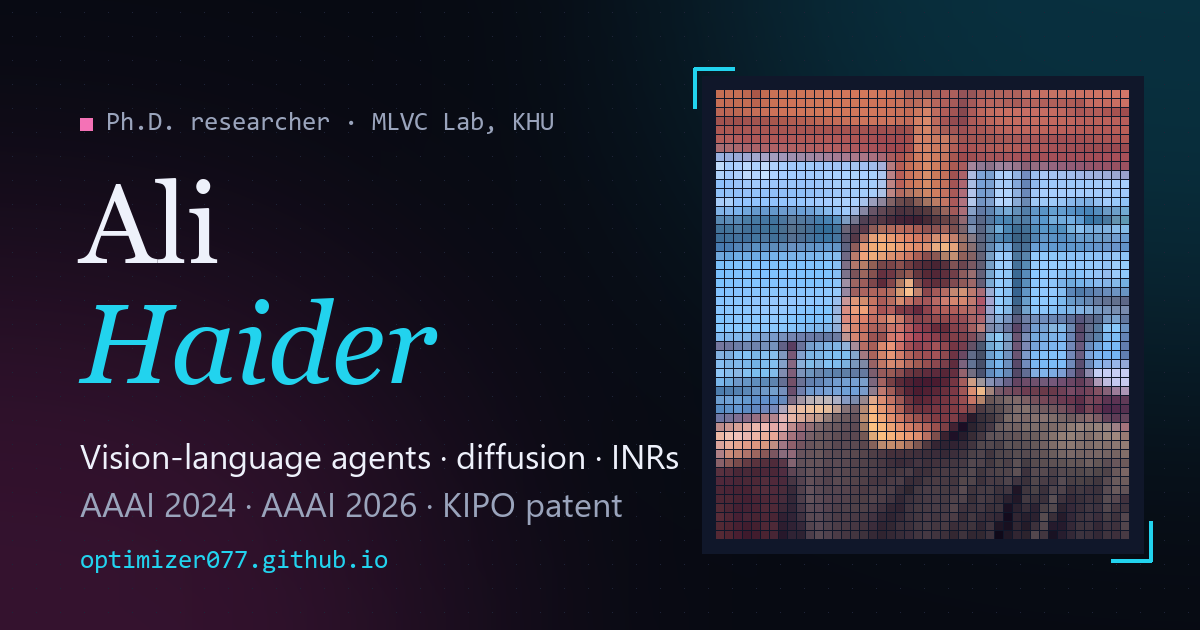
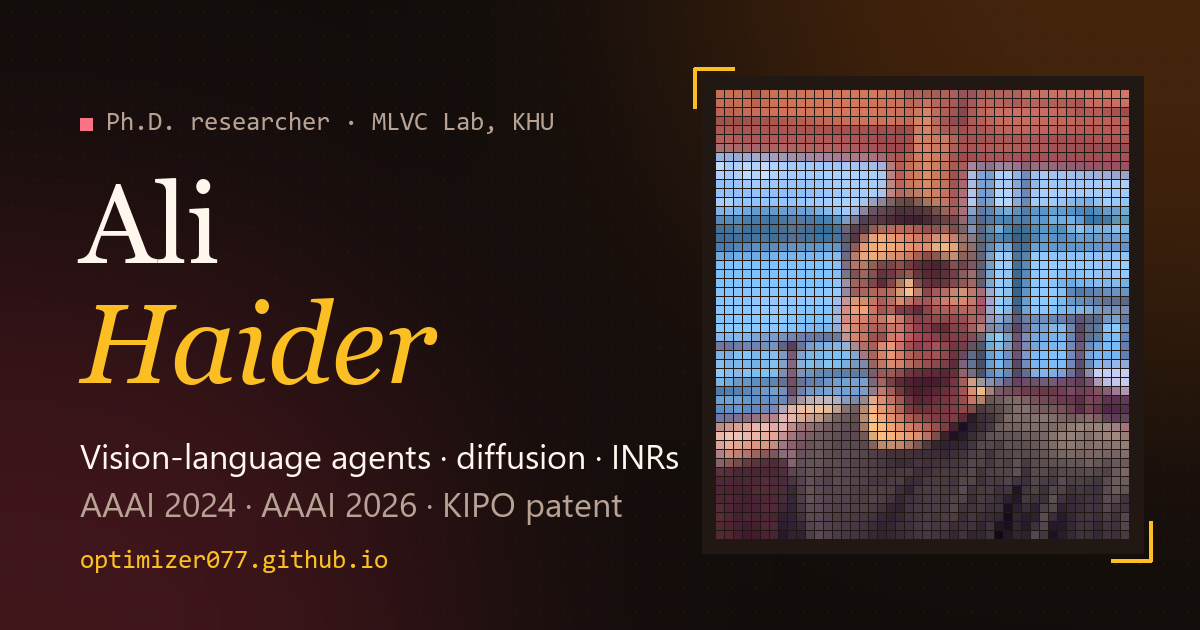
feat: Ember palette site-wide (warm charcoal, amber, coral)
Chosen from four previewed tones. Applies to CSS tokens, background
physics colour ramps, pixel car and drone scenes, favicon, app icon,
link-preview card and the mobile browser-bar colour. Removes the
temporary ?tone= preview code. Readability audit unchanged (no real
WCAG AA failures across scenes/scroll positions on desktop and phone).

diff --git a/style.css b/style.css
@@ -58,24 +58,24 @@
 /* ----- Tokens: dark ("ink") — the site is dark-only; these override the base set above ----- */
 @media all {
   :root {
-    --clr-bg:            #070a12;
-    --clr-bg-alt:        #0c1120;
-    --clr-surface:       #10172a;
-    --clr-primary:       #f1f5ff;
-    --clr-text:          #c9d1e4;
-    --clr-muted:         #9aa4bc;
-    --clr-border:        #1e2840;
-    --clr-grid:          rgba(241, 245, 255, .05);
-    --clr-accent:        #22d3ee;
-    --clr-accent-dark:   #67e8f9;
-    --clr-accent-light:  rgba(34, 211, 238, .12);
-    --clr-accent-border: rgba(34, 211, 238, .4);
-    --clr-signal:        #f472b6;
-    --clr-on-accent:     #04121a;
-    --clr-header:        rgba(7, 10, 18, .82);
-  --clr-glow:          rgba(34, 211, 238, .13);
-  --clr-thumb:         #d9e2f0;
-  --clr-glow-2:        rgba(244, 114, 182, .11);
+    --clr-bg:            #120d0b;
+    --clr-bg-alt:        #1a1310;
+    --clr-surface:       #211814;
+    --clr-primary:       #fff7ed;
+    --clr-text:          #e6d5c8;
+    --clr-muted:         #b8a294;
+    --clr-border:        #3a2a23;
+    --clr-grid:          rgba(255, 247, 237, .05);
+    --clr-accent:        #fbbf24;
+    --clr-accent-dark:   #fcd34d;
+    --clr-accent-light:  rgba(251, 191, 36, .12);
+    --clr-accent-border: rgba(251, 191, 36, .4);
+    --clr-signal:        #fb7185;
+    --clr-on-accent:     #1a1004;
+    --clr-header:        rgba(18, 13, 11, .82);
+  --clr-glow:          rgba(251, 146, 60, .13);
+  --clr-thumb:         #ecdfd3;
+  --clr-glow-2:        rgba(251, 113, 133, .10);
     --clr-badge-green-text:  #74e3a0;
     --clr-badge-blue-text:   #8db4ff;
     --clr-badge-purple-text: #d3a6ff;
@@ -87,24 +87,24 @@
   }
 }
 :root[data-theme="dark"] {
-  --clr-bg:            #070a12;
-  --clr-bg-alt:        #0c1120;
-  --clr-surface:       #10172a;
-  --clr-primary:       #f1f5ff;
-  --clr-text:          #c9d1e4;
-  --clr-muted:         #9aa4bc;
-  --clr-border:        #1e2840;
-  --clr-grid:          rgba(241, 245, 255, .05);
-  --clr-accent:        #22d3ee;
-  --clr-accent-dark:   #67e8f9;
-  --clr-accent-light:  rgba(34, 211, 238, .12);
-  --clr-accent-border: rgba(34, 211, 238, .4);
-  --clr-signal:        #f472b6;
-  --clr-on-accent:     #04121a;
-  --clr-header:        rgba(7, 10, 18, .82);
-  --clr-glow:          rgba(34, 211, 238, .13);
-  --clr-thumb:         #d9e2f0;
-  --clr-glow-2:        rgba(244, 114, 182, .11);
+  --clr-bg:            #120d0b;
+  --clr-bg-alt:        #1a1310;
+  --clr-surface:       #211814;
+  --clr-primary:       #fff7ed;
+  --clr-text:          #e6d5c8;
+  --clr-muted:         #b8a294;
+  --clr-border:        #3a2a23;
+  --clr-grid:          rgba(255, 247, 237, .05);
+  --clr-accent:        #fbbf24;
+  --clr-accent-dark:   #fcd34d;
+  --clr-accent-light:  rgba(251, 191, 36, .12);
+  --clr-accent-border: rgba(251, 191, 36, .4);
+  --clr-signal:        #fb7185;
+  --clr-on-accent:     #1a1004;
+  --clr-header:        rgba(18, 13, 11, .82);
+  --clr-glow:          rgba(251, 146, 60, .13);
+  --clr-thumb:         #ecdfd3;
+  --clr-glow-2:        rgba(251, 113, 133, .10);
   --clr-badge-green-text:  #74e3a0;
   --clr-badge-blue-text:   #8db4ff;
   --clr-badge-purple-text: #d3a6ff;
@@ -113,48 +113,6 @@
   --clr-badge-rose-text:   #fb7f9b;
   --shadow-md: 0 14px 34px -14px rgba(0, 0, 0, .7);
   color-scheme: dark;
-}
-
-/* ----- Preview tones: activated by ?tone=<name> in the URL (not persisted) ----- */
-:root[data-tone="aurora"] {
-  --clr-bg: #061210; --clr-bg-alt: #0a1a17; --clr-surface: #0d211d; --clr-border: #1b3530;
-  --clr-primary: #ecfdf5; --clr-text: #c6ddd6; --clr-muted: #94b3aa;
-  --clr-grid: rgba(236, 253, 245, .05);
-  --clr-accent: #34d399; --clr-accent-dark: #6ee7b7;
-  --clr-accent-light: rgba(52, 211, 153, .12); --clr-accent-border: rgba(52, 211, 153, .4);
-  --clr-signal: #a78bfa; --clr-on-accent: #03140e;
-  --clr-header: rgba(6, 18, 16, .82);
-  --clr-glow: rgba(52, 211, 153, .13); --clr-glow-2: rgba(167, 139, 250, .10);
-}
-:root[data-tone="ember"] {
-  --clr-bg: #120d0b; --clr-bg-alt: #1a1310; --clr-surface: #211814; --clr-border: #3a2a23;
-  --clr-primary: #fff7ed; --clr-text: #e6d5c8; --clr-muted: #b8a294;
-  --clr-grid: rgba(255, 247, 237, .05);
-  --clr-accent: #fbbf24; --clr-accent-dark: #fcd34d;
-  --clr-accent-light: rgba(251, 191, 36, .12); --clr-accent-border: rgba(251, 191, 36, .4);
-  --clr-signal: #fb7185; --clr-on-accent: #1a1004;
-  --clr-header: rgba(18, 13, 11, .82);
-  --clr-glow: rgba(251, 191, 36, .13); --clr-glow-2: rgba(251, 113, 133, .10);
-}
-:root[data-tone="ocean"] {
-  --clr-bg: #06101f; --clr-bg-alt: #0a172b; --clr-surface: #0e1d35; --clr-border: #1d3050;
-  --clr-primary: #f0f9ff; --clr-text: #c7d7ea; --clr-muted: #93a8c4;
-  --clr-grid: rgba(240, 249, 255, .05);
-  --clr-accent: #38bdf8; --clr-accent-dark: #7dd3fc;
-  --clr-accent-light: rgba(56, 189, 248, .12); --clr-accent-border: rgba(56, 189, 248, .4);
-  --clr-signal: #fbbf24; --clr-on-accent: #03111d;
-  --clr-header: rgba(6, 16, 31, .82);
-  --clr-glow: rgba(56, 189, 248, .13); --clr-glow-2: rgba(251, 191, 36, .10);
-}
-:root[data-tone="royal"] {
-  --clr-bg: #0f0a1a; --clr-bg-alt: #160f25; --clr-surface: #1c132f; --clr-border: #33264d;
-  --clr-primary: #faf5ff; --clr-text: #dcd0ee; --clr-muted: #ab9cc6;
-  --clr-grid: rgba(250, 245, 255, .05);
-  --clr-accent: #c084fc; --clr-accent-dark: #d8b4fe;
-  --clr-accent-light: rgba(192, 132, 252, .12); --clr-accent-border: rgba(192, 132, 252, .4);
-  --clr-signal: #fdba74; --clr-on-accent: #14081f;
-  --clr-header: rgba(15, 10, 26, .82);
-  --clr-glow: rgba(192, 132, 252, .13); --clr-glow-2: rgba(253, 186, 116, .10);
 }
 
 /* ----- Reset & base ----- */

diff --git a/index.html b/index.html
@@ -6,7 +6,7 @@
   <meta name="viewport" content="width=device-width, initial-scale=1" />
   <meta name="description" content="Ali Haider — Ph.D. researcher in AI at Kyung Hee University (MLVC Lab). Vision-language navigation for drones, diffusion models for images and language, implicit neural representations. AAAI 2024, AAAI 2026." />
   <link rel="canonical" href="https://optimizer077.github.io/" />
-  <meta name="theme-color" content="#070a12" />
+  <meta name="theme-color" content="#120d0b" />
   <meta name="color-scheme" content="dark" />
   <link rel="icon" href="favicon.svg" type="image/svg+xml" />
   <link rel="apple-touch-icon" href="apple-touch-icon.png" />
@@ -23,11 +23,11 @@
   <meta name="twitter:creator" content="@007Alihaider" />
   <link rel="preload" as="image" href="assets/img/portrait.webp" type="image/webp" />
   <script type="application/ld+json">{"@context": "https://schema.org", "@type": "Person", "name": "Ali Haider", "url": "https://optimizer077.github.io/", "image": "https://optimizer077.github.io/assets/img/portrait.webp", "jobTitle": "Ph.D. Researcher in Artificial Intelligence", "affiliation": {"@type": "CollegeOrUniversity", "name": "Kyung Hee University"}, "alumniOf": {"@type": "CollegeOrUniversity", "name": "University of Engineering and Technology, Taxila"}, "knowsAbout": ["Vision-language models", "Vision-language navigation", "Diffusion models", "Implicit neural representations", "Image restoration", "MRI reconstruction"], "sameAs": ["https://scholar.google.com/citations?user=-ADiGUAAAAAJ", "https://github.com/Optimizer077", "https://x.com/007Alihaider"]}</script>
-  <script>(function(){var d=document.documentElement;d.classList.add('js');var m=/[?&]tone=([a-z]+)/.exec(location.search);if(m)d.setAttribute('data-tone',m[1]);})();</script>
+  <script>document.documentElement.classList.add('js');</script>
   <link rel="preconnect" href="https://fonts.googleapis.com" />
   <link rel="preconnect" href="https://fonts.gstatic.com" crossorigin />
   <link href="https://fonts.googleapis.com/css2?family=Hanken+Grotesk:wght@400;500;600;700&family=Instrument+Serif:ital@0;1&family=JetBrains+Mono:wght@400;500&display=swap" rel="stylesheet" />
-  <link rel="stylesheet" href="style.css?v=735be30d" />
+  <link rel="stylesheet" href="style.css?v=327006ec" />
 </head>
 <body>
   <a class="skip-link" href="#main">Skip to content</a>
@@ -737,11 +737,11 @@
   </footer>
 
   <script src="assets/js/site.js?v=b1572635" defer></script>
-  <script src="assets/js/bg-physics.js?v=cd98ecd9" defer></script>
+  <script src="assets/js/bg-physics.js?v=308d2ffe" defer></script>
   <script src="assets/js/flow-field.js?v=c58437f6" defer></script>
   <script src="assets/js/pixel-hero.js?v=a2e7a5b7" defer></script>
-  <script src="assets/js/hill-drive.js?v=3515974f" defer></script>
-  <script src="assets/js/drone-nav.js?v=46771c6b" defer></script>
+  <script src="assets/js/hill-drive.js?v=10d64876" defer></script>
+  <script src="assets/js/drone-nav.js?v=3d6eb050" defer></script>
   <script src="assets/js/mini-demos.js?v=67ed3d28" defer></script>
   <script src="assets/js/learn-loop.js?v=daa6a3fd" defer></script>
 </body>

diff --git a/reading.html b/reading.html
@@ -6,7 +6,7 @@
   <meta name="viewport" content="width=device-width, initial-scale=1" />
   <meta name="description" content="Ali Haider's paper reading list — vision-language navigation, VLMs, reasoning, diffusion, INRs, MRI and more, synced from Zotero." />
   <link rel="canonical" href="https://optimizer077.github.io/reading.html" />
-  <meta name="theme-color" content="#070a12" />
+  <meta name="theme-color" content="#120d0b" />
   <meta name="color-scheme" content="dark" />
   <link rel="icon" href="favicon.svg" type="image/svg+xml" />
   <link rel="apple-touch-icon" href="apple-touch-icon.png" />
@@ -21,11 +21,11 @@
   <meta property="og:image:alt" content="Ali Haider — pixel portrait and research summary" />
   <meta name="twitter:card" content="summary_large_image" />
   <meta name="twitter:creator" content="@007Alihaider" />
-  <script>(function(){var d=document.documentElement;d.classList.add('js');var m=/[?&]tone=([a-z]+)/.exec(location.search);if(m)d.setAttribute('data-tone',m[1]);})();</script>
+  <script>document.documentElement.classList.add('js');</script>
   <link rel="preconnect" href="https://fonts.googleapis.com" />
   <link rel="preconnect" href="https://fonts.gstatic.com" crossorigin />
   <link href="https://fonts.googleapis.com/css2?family=Hanken+Grotesk:wght@400;500;600;700&family=Instrument+Serif:ital@0;1&family=JetBrains+Mono:wght@400;500&display=swap" rel="stylesheet" />
-  <link rel="stylesheet" href="style.css?v=735be30d" />
+  <link rel="stylesheet" href="style.css?v=327006ec" />
 </head>
 <body class="page-reading">
   <a class="skip-link" href="#main">Skip to content</a>
@@ -119,7 +119,7 @@
   </footer>
 
   <script src="assets/js/site.js?v=b1572635" defer></script>
-  <script src="assets/js/bg-physics.js?v=cd98ecd9" defer></script>
+  <script src="assets/js/bg-physics.js?v=308d2ffe" defer></script>
   <script src="assets/js/flow-field.js?v=c58437f6" defer></script>
   <script src="assets/js/reading.js?v=ca8dd1f0" defer></script>
 </body>

diff --git a/seminar.html b/seminar.html
@@ -6,7 +6,7 @@
   <meta name="viewport" content="width=device-width, initial-scale=1" />
   <meta name="description" content="Selected seminar talks and invited presentations by Ali Haider — diffusion models, image restoration, reasoning and agentic vision systems." />
   <link rel="canonical" href="https://optimizer077.github.io/seminar.html" />
-  <meta name="theme-color" content="#070a12" />
+  <meta name="theme-color" content="#120d0b" />
   <meta name="color-scheme" content="dark" />
   <link rel="icon" href="favicon.svg" type="image/svg+xml" />
   <link rel="apple-touch-icon" href="apple-touch-icon.png" />
@@ -21,11 +21,11 @@
   <meta property="og:image:alt" content="Ali Haider — pixel portrait and research summary" />
   <meta name="twitter:card" content="summary_large_image" />
   <meta name="twitter:creator" content="@007Alihaider" />
-  <script>(function(){var d=document.documentElement;d.classList.add('js');var m=/[?&]tone=([a-z]+)/.exec(location.search);if(m)d.setAttribute('data-tone',m[1]);})();</script>
+  <script>document.documentElement.classList.add('js');</script>
   <link rel="preconnect" href="https://fonts.googleapis.com" />
   <link rel="preconnect" href="https://fonts.gstatic.com" crossorigin />
   <link href="https://fonts.googleapis.com/css2?family=Hanken+Grotesk:wght@400;500;600;700&family=Instrument+Serif:ital@0;1&family=JetBrains+Mono:wght@400;500&display=swap" rel="stylesheet" />
-  <link rel="stylesheet" href="style.css?v=735be30d" />
+  <link rel="stylesheet" href="style.css?v=327006ec" />
   <style>
     /* ── Page header ── */
     .seminar-hero { margin-bottom: 1.75rem; }
@@ -304,7 +304,7 @@
   </footer>
 
   <script src="assets/js/site.js?v=b1572635" defer></script>
-  <script src="assets/js/bg-physics.js?v=cd98ecd9" defer></script>
+  <script src="assets/js/bg-physics.js?v=308d2ffe" defer></script>
   <script src="assets/js/flow-field.js?v=c58437f6" defer></script>
 </body>
 </html>

diff --git a/404.html b/404.html
@@ -5,14 +5,14 @@
   <title>Page not found — Ali Haider</title>
   <meta name="viewport" content="width=device-width, initial-scale=1" />
   <meta name="robots" content="noindex" />
-  <meta name="theme-color" content="#070a12" />
+  <meta name="theme-color" content="#120d0b" />
   <meta name="color-scheme" content="dark" />
   <link rel="icon" href="/favicon.svg" type="image/svg+xml" />
-  <script>(function(){var d=document.documentElement;d.classList.add('js');var m=/[?&]tone=([a-z]+)/.exec(location.search);if(m)d.setAttribute('data-tone',m[1]);})();</script>
+  <script>document.documentElement.classList.add('js');</script>
   <link rel="preconnect" href="https://fonts.googleapis.com" />
   <link rel="preconnect" href="https://fonts.gstatic.com" crossorigin />
   <link href="https://fonts.googleapis.com/css2?family=Hanken+Grotesk:wght@400;500;600;700&family=Instrument+Serif:ital@0;1&family=JetBrains+Mono:wght@400;500&display=swap" rel="stylesheet" />
-  <link rel="stylesheet" href="/style.css?v=735be30d" />
+  <link rel="stylesheet" href="/style.css?v=327006ec" />
   <style>
     .nf {
       min-height: calc(100vh - var(--header-h) - 80px);

diff --git a/assets/js/drone-nav.js b/assets/js/drone-nav.js
@@ -40,12 +40,12 @@
       trail: '#3550e8', box: '#c22a60', star: null
     },
     dark: {
-      skyTop: '#05070e', skyBottom: '#101830', far: '#121a32',
-      bldg: ['#18213d', '#1d2747', '#151d36'], win: '#232d4c', winLit: '#fbbf24',
-      ground: '#05070e', tree: '#0f766e', trunk: '#05070e',
-      tower: '#f472b6', pad: '#22d3ee', padMark: '#04121a',
-      drone: '#f1f5ff', rotor: '#94a3b8', led: '#fb7185',
-      trail: '#22d3ee', box: '#f472b6', star: '#e2e8f0'
+      skyTop: '#0d0806', skyBottom: '#22160f', far: '#1c140f',
+      bldg: ['#2a1f19', '#33261e', '#241a15'], win: '#3a2c22', winLit: '#fbbf24',
+      ground: '#0d0806', tree: '#4d7c0f', trunk: '#0d0806',
+      tower: '#fb7185', pad: '#fbbf24', padMark: '#1a1004',
+      drone: '#fff7ed', rotor: '#a8a29e', led: '#fb7185',
+      trail: '#fbbf24', box: '#fb7185', star: '#fef3c7'
     }
   };
 

diff --git a/assets/js/hill-drive.js b/assets/js/hill-drive.js
@@ -39,9 +39,9 @@
       light: '#ffd36b', tail: '#a32020', star: null
     },
     dark: {
-      skyTop: '#05070e', skyBottom: '#101830', sun: '#fde68a', cloud: '#17203a',
-      far: '#131b34', mid: '#16304a', ground: '#0e7490', grass: '#22d3ee', dust: '#1f6f86',
-      body: '#f472b6', window: '#cffafe', wheel: '#02040a', hub: '#64748b',
+      skyTop: '#0d0806', skyBottom: '#2a1a12', sun: '#fde68a', cloud: '#2a1d16',
+      far: '#1f1611', mid: '#3a2416', ground: '#7c3f12', grass: '#fbbf24', dust: '#a16207',
+      body: '#fb7185', window: '#fff7ed', wheel: '#0a0605', hub: '#a8a29e',
       light: '#fff2b0', tail: '#ff5a4f', star: '#e8e2d2'
     }
   };

diff --git a/assets/js/bg-physics.js b/assets/js/bg-physics.js
@@ -111,8 +111,8 @@
     '  gl_Position = vec4(s.x/uAspect, s.y, 0., 1.);\n' +
     '  gl_PointSize = 1.;\n' +
     '  vec3 col = uA; float a = 1.;\n' +
-    // colour maps: cyan -> violet -> magenta for speed / noise level
-    '  vec3 violet = vec3(.55, .36, .96);\n' +
+    // colour maps: amber -> orange -> coral for speed / noise level
+    '  vec3 violet = vec3(.98, .57, .24);\n' +
     '  if (uScene == 0) { float v = clamp(length(s.zw)*1.8, 0., 1.);\n' +
     '    col = v < .5 ? mix(uA, violet, v*2.) : mix(violet, uB, v*2. - 1.); }\n' +
     '  else if (uScene == 1) { float v = s.z;\n' +
